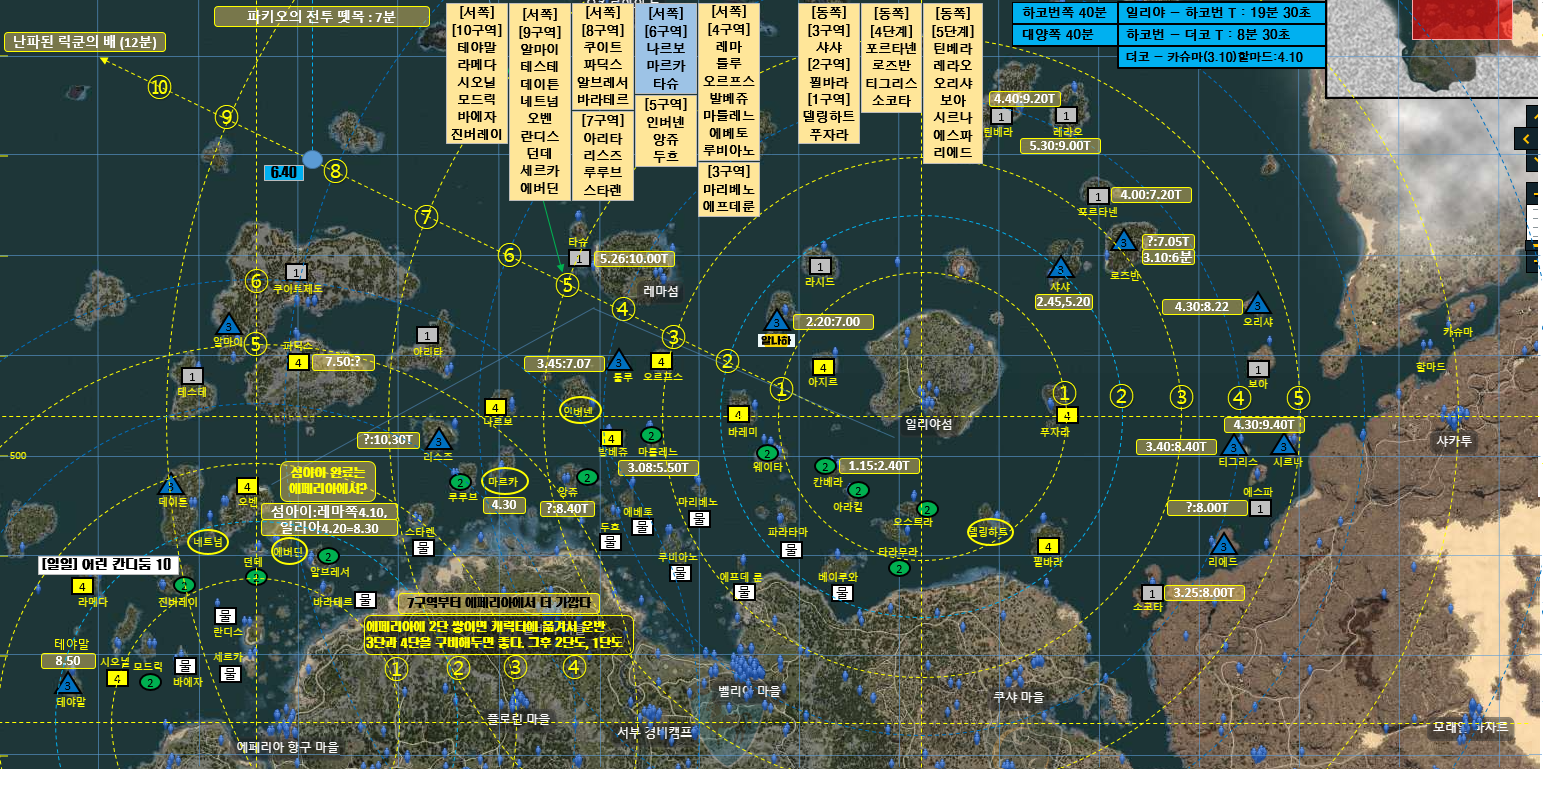
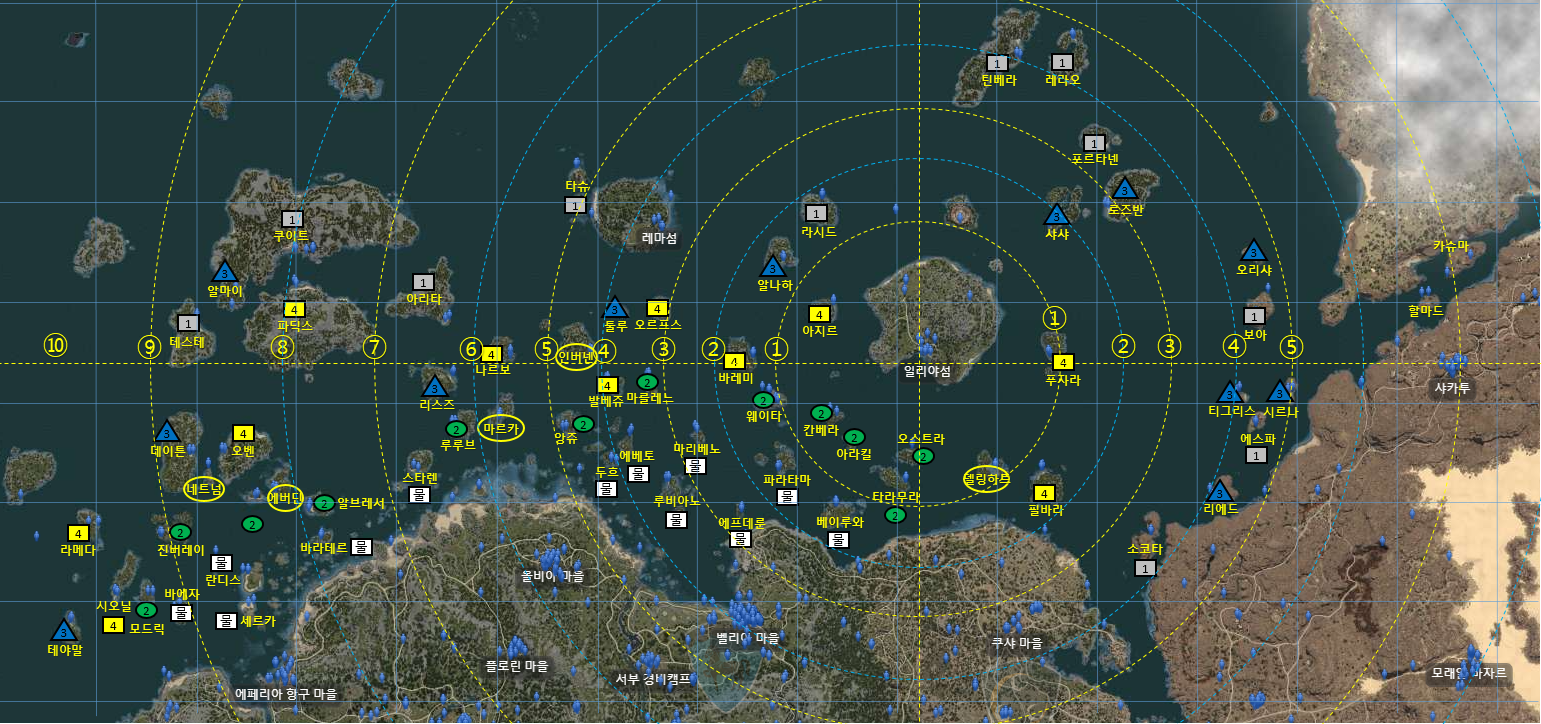
ㅌㅋㅊㅋㅊ

diff --git a/portal/assets/js/black_해역사진.js b/portal/assets/js/black_해역사진.js
@@ -112,57 +112,65 @@ if (document.querySelector('#해역_물품단계')) {
   var 단계5물품=['젊음을 담은 비약','고대인을 형상화한 초상화','102년 묵은 황금초','조각상의 눈물','푸른빛 석영','팔각 문양 보관함','정체불명의 암석',
   '황금빛 물고기 비늘','팔랑나비 박제품','37년된 약주','흰색 애벌레 박제품','고급 문양의 옷감','빛바랜 황금용 조각상','최고급 황금 촛대']
 
-  var 구역01_동끝=['푸자라'];
-  var 구역01_남남동끝=['델링하트'];
+  var 구역01_동=['푸자라'];
+  var 구역01_동남45도=['델링하트'];
   var 구역01_남=['오스트라','타라무라'];
-  var 구역01_남서=['칸베라','아라킬'];
-  var 구역01_북서=['아지르','알나하'];
+  var 구역01_서남40도=['칸베라','아라킬'];
+  var 구역01_서북30도=['아지르'];
 
-  var 구역02_동북=['샤샤'];
-  var 구역02_남동=['필바라'];
-  var 구역02_남남서=['베이루와'];
-  var 구역02_남서=['파라타마'];
-  var 구역02_서서남=['웨이타'];
-  var 구역02_서끝=['바레미'];
-  var 구역02_서북=['알나하','라시드'];
+  var 구역02_동북45도=['샤샤'];
+  var 구역02_동남45도=['필바라'];
+  var 구역02_서남60도=['베이루와'];
+  var 구역02_서남45도=['파라타마'];
+  var 구역02_서남20도=['웨이타'];
+  var 구역02_서=['바레미'];
+  var 구역02_서북30도=['알나하'];
+  var 구역02_서북50도=['라시드'];
 
-  var 구역03_북서=['로즈반']; //결과에 북동으로
-  var 구역03_남서=['에프데룬'];
-  var 구역03_서서남=['마리베노'];
+  var 구역03_동북40도=['로즈반']; //결과에 북동으로
+  var 구역03_서남45도=['에프데룬'];
+  var 구역03_서남30도=['마리베노'];
 
-  var 구역04_북북동=['틴베라'];
-  var 구역04_북동=['포르타넨'];
-  var 구역04_동=['티그리스'];
-  var 구역04_동남=['리에드','소코타'];
-  var 구역04_서남=['루비아노'];
-  var 구역04_서서남=['에베토','발베쥬','마를레느'];
-  var 구역04_서서북=['툴루','오르프스'];
+  var 구역04_동북80도=['틴베라'];
+  var 구역04_동북50도=['포르타넨'];
+  var 구역04_동남10도=['티그리스'];
+  var 구역04_동남30도=['리에드'];
+  var 구역04_동남45도=['소코타'];
+  var 구역04_서남40도=['루비아노'];
+  var 구역04_서남30도=['에베토'];
+  var 구역04_서남5도=['발베쥬','마를레느'];
+  var 구역04_서북15도=['툴루','오르프스'];
 
-  var 구역05_북북동=['레라오'];
-  var 구역05_동동북=['오리샤','보아'];
-  var 구역05_동=['시르나','에스파'];
-  var 구역05_동동남=['리에드'];
-  var 구역05_남동=['소코타'];
-  var 구역05_서서남=['두흐','앙쥬'];
-  var 구역05_서=['인버넨',''];
+  var 구역05_동북70도=['레라오'];
+  var 구역05_동북15도=['보아'];
+  var 구역05_동북30도=['오리샤'];
+  var 구역05_동남10도=['시르나','에스파'];
+  var 구역05_동남30도=['리에드'];
+  var 구역05_서남30도=['두흐'];
+  var 구역05_서남15도=['앙쥬'];
+  var 구역05_서=['인버넨'];
 
-  var 구역06_서서남=['마르카'];
+  var 구역06_서남20도=['마르카'];
   var 구역06_서=['나르보'];
-  var 구역06_서북=['타슈'];
+  var 구역06_서북35도=['타슈'];
 
-  var 구역07_서남=['리스즈','루루브','스타렌'];
-  var 구역07_서=['나르보'];
-  var 구역07_서서북=['아리타'];
+  var 구역07_서남5도=['리스즈'];
+  var 구역07_서남20도=['루루브'];
+  var 구역07_서남30도=['스타렌'];
+  var 구역07_서북15도=['아리타'];
 
-  var 구역08_서서북=['쿠이트','파딕스'];
-  var 구역08_서서남=['알브레서','바라테르'];
+  var 구역08_서북25도=['쿠이트'];
+  var 구역08_서북15도=['파딕스'];
+  var 구역08_서남30도=['알브레서','바라테르'];
 
-  var 구역09_서서북=['테스테','알마이'];
-  var 구역09_서서남=['데이튼','오벤','네트넘','던데','에버딘','진버레이'];
-  var 구역09_서남=['란디스','세르카'];
+  var 구역09_서북10도=['테스테'];
+  var 구역09_서북20도=['알마이'];
+  var 구역09_서남15도=['데이튼','오벤','네트넘'];
+  var 구역09_서남25도=['던데','에버딘','진버레이'];
+  var 구역09_서남35도=['란디스','세르카'];
 
-  var 구역10_서끝=['라메다','테야말'];
-  var 구역10_서남=['시오닐','모드릭','바에자'];
+  var 구역10_서남25도=['라메다'];
+  var 구역10_서남35도=['시오닐','모드릭','바에자','테야말'];
 
   var 일반물품섬='_바에자_세르카_란디스_바라테르_스타렌_두흐_에베토_마리베노_에프데룬_베이루와_파라타마_';
   var 단계1섬='_쿠이트_테스테_타슈_아리타_라시드_포르타넨_보아_에스파_소코타_틴베라_레라오_';
@@ -378,57 +386,64 @@ function 리스너_해역사진관련_change시(e) {
       e.target.parentNode.nextElementSibling.innerHTML='';//form결과를 나타내는 형제 div
       // var text=e.target.value;
       // var result='';
-      if (구역01_동끝.find(element => element==text)) {result="구역01_동끝"};
-      if (구역01_남남동끝.find(element => element==text)) {result="구역01_남남동끝"};
+      if (구역01_동.find(element => element==text)) {result="구역01_동"};
+      if (구역01_동남45도.find(element => element==text)) {result="구역01_동남45도"};
       if (구역01_남.find(element => element==text)) {result="구역01_남"};
-      if (구역01_남서.find(element => element==text)) {result="구역01_남서"};
-      if (구역01_북서.find(element => element==text)) {result="구역01_북서"};
+      if (구역01_서남40도.find(element => element==text)) {result="구역01_서남40도"};
+      if (구역01_서북30도.find(element => element==text)) {result="구역01_서북30도"};
+   
+      if (구역02_동북45도.find(element => element==text)) {result="구역02_동북45도"};
+      if (구역02_동남45도.find(element => element==text)) {result="구역02_동남45도"};
+      if (구역02_서남60도.find(element => element==text)) {result="구역02_서남60도"};
+      if (구역02_서남45도.find(element => element==text)) {result="구역02_서남45도"};
+      if (구역02_서남20도.find(element => element==text)) {result="구역02_서남20도"};
+      if (구역02_서.find(element => element==text)) {result="구역02_서"};
+      if (구역02_서북30도.find(element => element==text)) {result="구역02_서북30도"};
+      if (구역02_서북50도.find(element => element==text)) {result="구역02_서북50도"};
     
-      if (구역02_동북.find(element => element==text)) {result="구역02_동북"};
-      if (구역02_남동.find(element => element==text)) {result="구역02_남동"};
-      if (구역02_남남서.find(element => element==text)) {result="구역02_남남서"};
-      if (구역02_남서.find(element => element==text)) {result="구역02_남서"};
-      if (구역02_서끝.find(element => element==text)) {result="구역02_서끝"};
-      if (구역02_서서남.find(element => element==text)) {result="구역02_서서남"};
-      if (구역02_서북.find(element => element==text)) {result="구역02_서북"};
+      if (구역03_동북40도.find(element => element==text)) {result="구역03_동북40도"};
+      if (구역03_서남45도.find(element => element==text)) {result="구역03_서남45도"};
+      if (구역03_서남30도.find(element => element==text)) {result="구역03_서남30도"};
     
-      if (구역03_북서.find(element => element==text)) {result="구역03_북동"};
-      if (구역03_남서.find(element => element==text)) {result="구역03_남서"};
-      if (구역03_서서남.find(element => element==text)) {result="구역03_서서남"};
+      if (구역04_동북80도.find(element => element==text)) {result="구역04_동북80도"};
+      if (구역04_동북50도.find(element => element==text)) {result="구역04_동북50도"};
+      if (구역04_동남10도.find(element => element==text)) {result="구역04_동남10도"};
+      if (구역04_동남30도.find(element => element==text)) {result="구역04_동남30도"};
+      if (구역04_동남45도.find(element => element==text)) {result="구역04_동남45도"};
+      if (구역04_서남30도.find(element => element==text)) {result="구역04_서남30도"};
+      if (구역04_서남5도.find(element => element==text)) {result="구역04_서남5도"};
+      if (구역04_서북15도.find(element => element==text)) {result="구역04_서북15도"};
     
-      if (구역04_북북동.find(element => element==text)) {result="구역04_북북동"};
-      if (구역04_북동.find(element => element==text)) {result="구역04_=북동"};
-      if (구역04_동.find(element => element==text)) {result="구역04_동"};
-      if (구역04_동남.find(element => element==text)) {result="구역04_동남"};
-      if (구역04_서남.find(element => element==text)) {result="구역04_서남"};
-      if (구역04_서서남.find(element => element==text)) {result="구역04_서서남"};
-      if (구역04_서서북.find(element => element==text)) {result="구역04_서서북"};
-    
-      if (구역05_북북동.find(element => element==text)) {result="구역05_북북동"};
-      if (구역05_동동북.find(element => element==text)) {result="구역05_동동북"};
-      if (구역05_동.find(element => element==text)) {result="구역05_동"};
-      if (구역05_동동남.find(element => element==text)) {result="구역05_동동남"};
-      if (구역05_남동.find(element => element==text)) {result="구역05_남동"};
-      if (구역05_서서남.find(element => element==text)) {result="구역05_서서남"};
+      if (구역05_동북70도.find(element => element==text)) {result="구역05_동북70도"};
+      if (구역05_동북15도.find(element => element==text)) {result="구역05_동북15도"};
+      if (구역05_동북30도.find(element => element==text)) {result="구역05_동북30도"};
+      if (구역05_동남10도.find(element => element==text)) {result="구역05_동남10도"};
+      if (구역05_동남30도.find(element => element==text)) {result="구역05_동남30도"};
+      if (구역05_서남30도.find(element => element==text)) {result="구역05_서남30도"};
+      if (구역05_서남15도.find(element => element==text)) {result="구역05_서남15도"};
       if (구역05_서.find(element => element==text)) {result="구역05_서"};
     
-      if (구역06_서서남.find(element => element==text)) {result="구역06_서서남"};
+      if (구역06_서남20도.find(element => element==text)) {result="구역06_서남20도"};
       if (구역06_서.find(element => element==text)) {result="구역06_서"};
-      if (구역06_서북.find(element => element==text)) {result="구역06_서북"};
+      if (구역06_서북35도.find(element => element==text)) {result="구역06_서북35도"};
     
-      if (구역07_서남.find(element => element==text)) {result="구역07_서남"};
-      if (구역07_서.find(element => element==text)) {result="구역07_서"};
-      if (구역07_서서북.find(element => element==text)) {result="구역07_서서북"};
+      if (구역07_서남5도.find(element => element==text)) {result="구역07_서남5도"};
+      if (구역07_서남20도.find(element => element==text)) {result="구역07_서남20도"};
+      if (구역07_서남30도.find(element => element==text)) {result="구역07_서남30도"};
+      if (구역07_서북15도.find(element => element==text)) {result="구역07_서북15도"};
     
-      if (구역08_서서북.find(element => element==text)) {result="구역08_서서북"};
-      if (구역08_서서남.find(element => element==text)) {result="구역08_서서남"};
+      if (구역08_서북25도.find(element => element==text)) {result="구역08_서북25도"};
+      if (구역08_서북15도.find(element => element==text)) {result="구역08_서북15도"};
+      if (구역08_서남30도.find(element => element==text)) {result="구역08_서남30도"};
     
-      if (구역09_서서북.find(element => element==text)) {result="구역09_서서북"};
-      if (구역09_서서남.find(element => element==text)) {result="구역09_서서남"};
-      if (구역09_서남.find(element => element==text)) {result="구역09_서남"};
+      if (구역09_서북10도.find(element => element==text)) {result="구역09_서북10도"};
+      if (구역09_서북20도.find(element => element==text)) {result="구역09_서북20도"};
+      if (구역09_서남15도.find(element => element==text)) {result="구역09_서남15도"};
+      if (구역09_서남25도.find(element => element==text)) {result="구역09_서남25도"};
+      if (구역09_서남35도.find(element => element==text)) {result="구역09_서남35도"};
     
-      if (구역10_서끝.find(element => element==text)) {result="구역10_서끝"};
-      if (구역10_서남.find(element => element==text)) {result="구역10_서남"};
+      if (구역10_서남25도.find(element => element==text)) {result="구역10_서남25도"};
+      if (구역10_서남35도.find(element => element==text)) {result="구역10_서남35도"};
     
       if (result=='') {
         e.target.value='';
@@ -526,7 +541,7 @@ function 리스너_해역사진관련_클릭시(e) {//교섭력계산기능
   }
   //교섭력규칙 안의 숫자클릭시
   var 실행='';
-  if (e.target.id=='계산_하코저가'||e.target.id=='계산_하코고가'||e.target.id=='계산_대양저가'||e.target.id=='계산_대양고가'||
+  if (e.target.id=='계산_하코저가'||e.target.id=='계산_더코'||e.target.id=='계산_하코'||e.target.id=='계산_대양저가'||e.target.id=='계산_대양고가'||
       e.target.id=='계산_하코4종'||e.target.id=='계산_대양7종'||e.target.id=='계산_사단까주'||e.target.id=='계산_사단까주8개'||
       e.target.id=='계산_하코와대양합'||e.target.id=='일회교섭력으로'||e.target.id=='계산_재갱1회당'||e.target.id=='일회교섭력') {
         for (var i=0; i<document.querySelectorAll('#차감input들 input').length; i++) {

diff --git a/black_해역사진.html b/black_해역사진.html
@@ -326,7 +326,7 @@
   <div class="d-inline-block" id="main사이드">
 
     <li class="파일연결" title="S1_인벤중범선증축표">인벤 : 중범선 중축표 [목표]</li> 
-    <li class="파일연결" title="S0_01_일퀘출석체크">일퀘출쳌</li>
+    <li class="파일연결" title="S0_01_까주모음참고">까마귀주화 모음 참고</li>
     <li class="파일연결" title="S1_해상일퀘동선">해상일퀘 동선, 재료수급 png </li>
     <li class="파일연결" title="S0_물교메모">물교메모</li>
     <li class="파일연결" title="S1_까마귀주화상점">까마귀 주화 상점, 레마섬, 까마귀둥지 [온기를 품은 블랙스톤(10주화), 한기가 서린 블랙스톤(20주화)]</li>
@@ -943,9 +943,9 @@
     <button onclick="document.querySelector('##전체대체').innerHTML='';">닫기</button><br>
     <embed style="border:1px solid black;background-color: white;" src="portal/images/코딩메모_lo_ycy/01_특수문자.txt" width=1000px height=870px>
   </div>
-  <div id="S0_01_일퀘출석체크" style="border:1px solid black;">
+  <div id="S0_01_까주모음참고" style="border:1px solid black;">
     <button onclick="document.querySelector('#전체대체').innerHTML='';">닫기</button><br>
-    <embed id="embed부분" src="portal/images/black_문서/S0_01_일퀘출석체크.txt" width=1000px height=870px>
+    <embed id="embed부분" src="portal/images/black_문서/S0_01_까주모음참고.txt" width=1000px height=870px>
   </div>
   <div id="S0_물교메모" style="border:1px solid black;">
     <button onclick="document.querySelector('#전체대체').innerHTML='';">닫기</button><br>

diff --git a/portal/assets/css/black_해역사진.css b/portal/assets/css/black_해역사진.css
@@ -62,9 +62,9 @@ code {display: block; color:black;margin-bottom:5px;}
 #리스너용섬이름검색 input {width:80px;}
 #리스너용섬이름검색 div {border:1px solid black;background-color: rgb(231, 222, 222);}
 /* 아래부분 */
-#textarea좌측상단메모 {width:520px;height:770px;left:5px;position: absolute;}
+#textarea좌측상단메모 {width:520px;height:718px;left:5px;position: absolute;}
 #해역_물품단계 img {position: absolute;left:339px;}
-#덩어리이동5개textarea {white-space: nowrap; position: absolute;margin-top:780px;left:5px;}
+#덩어리이동5개textarea {white-space: nowrap; position: absolute;margin-top:730px;left:5px;}
 #덩어리이동5개textarea textarea {display: inline-block;width:614px;height:500px; left:5px;top:1020px;}
 #S1_에페리아창고사진 {position: absolute;width:342px;height:116px;top:0px;left:530px; background-image:url('../../../portal/images/black_문서/S1_창고_에페리아.png');background-position: -1px -1px;}
 #S1_일리야창고사진 {position: absolute;width:342px;height:380px;top:00px;left:872px; background-image:url('../../../portal/images/black_문서/S1_창고_일리야.png');background-position: -1px -1px;}
